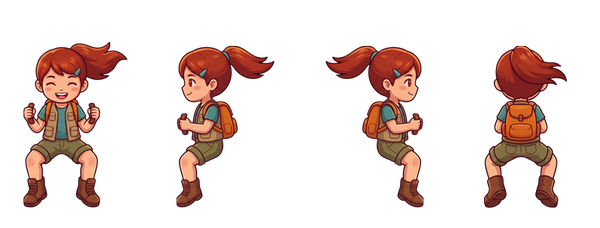
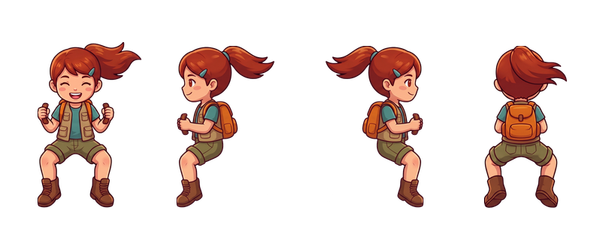
feat(images): retouches (pieu des ponts, fond volcan, masque de Léonce, T-Rex bouche ouverte, Chloé de face recentrée) ; FLY_BODY_X de face à 0

Changed region(s): [[0.03, 0.1842, 0.24, 0.9211]]

diff --git a/Godot/docs/direction-artistique.md b/Godot/docs/direction-artistique.md
@@ -119,13 +119,11 @@ chaque nouveau repli ; retirer la ligne une fois refait.
 | Chapitre 7, vol de profil : 2 images sur 4 identiques | `dinos/{quetzalcoatlus,hatzegopteryx,tupandactylus,tapejara}_vol.png` | nano-banana : 4 poses demandées, mais la pose « mi-haute » sortait à chaque essai avec un filé rose flou (3 essais) : cycle haut / plané / bas / plané (3 poses distinctes) | Redemander la pose mi-haute seule, nette |
 | Chapitre 7, vol face/dos : pose « ailes basses » | `dinos/*_vol_face_dos.png` | nano-banana : la 3e colonne est parfois très repliée (ailes en U) ; tupandactylus de face : 4e pose avec la tête tournée de 3/4 | Redemander ces cases |
 | Chapitre 7, `chloe_vol*.png` (3e version, 11/10) | `characters/chloe_vol.png`, `chloe_vol_manteau.png` (anciennes : `_v2.png`) | Assise à califourchon : cuisse en avant, genou plié à environ 90°, une seule jambe de profil, jambes écartées de face et de dos, mains sur les poignées ; réduite à 75 % autour du point d'assise (bassin à ±2 px de la 2e version) ; de profil gauche la jambe pend presque droite ; face de `chloe_vol` : yeux fermés (rire) | Si le calage ne plaît pas : `SHRINK` dans `cieux_persos.mjs` |
-| Chapitre 8, trex_magma : pose d'attaque | `dinos/trex_magma.png` (2e essai `qziwoi`) | nano-banana : le 2e essai a la bouche fermée partout (c'est ce qui était demandé au repos) mais la 6e pose « attaque » est elle aussi bouche fermée ; le 1er essai (`1bc8kc`) avait la gueule ouverte mais des poses 4 et 5 au cou penché et un halo de feu autour de la tête. De face, la fumée sort au niveau des yeux (de chaque côté de la tête) plutôt que des naseaux | Redemander la seule pose d'attaque gueule ouverte, sans halo de feu ; fumée des naseaux de face |
 | Chapitre 8, daspletosaurus / saichania : ressemblance avec leurs voisins | `dinos/daspletosaurus*.png`, `saichania*.png` | Daspletosaurus : éditée depuis l'Allosaurus, silhouette de profil proche (tête plus lourde, corps plus trapu seulement de face/dos) ; Saichania : éditée depuis l'Ankylosaurus, même ocre (les cornes du crâne et les épines plus petites la distinguent) | Si on les confond en jeu : Daspletosaurus plus trapu de profil (crâne plus haut, cou plus court), Saichania plus pâle/grise |
-| Chapitre 8, fond de combat volcan : restes du fond des Cieux | `battle/volcan.jpg` (source `1jdddz`) | nano-banana a gardé des plumes au sol et un petit drapeau en lambeaux hérités de `cieux.jpg` | Redemander sans plumes ni drapeau |
 | Chapitre 8, lave : sol non animé | `ground/lave.png` | Une seule image raccordable (nano-banana ne fait pas de planche animée) ; l'animation se fait par défilement/shader du sol | Au besoin, une planche de 4 images décalées |
 | Chapitre 8, autel_magma_fendu : lueur recolorée | `props/autel_magma_fendu.png` | La lueur de la fente, peinte sur le magenta, sortait rose : repeinte en orange par `recolor()` (tools/art-jobs/volcan_decors.mjs) | Redemander l'autel fendu avec la fente éclairée sur un fond d'une autre couleur |
-| Chapitre 8, Léonce assis : masque d'os trop grand | `characters/leonce_assis.png` | nano-banana a dessiné le masque presque aussi grand que la tête (posé sur le genou) | Le redemander plus petit (taille du visage) |
 | Chapitre 8, fiche de Brac assis : colonnes recomposées | `characters/brac_assis_cage.png` | nano-banana a dessiné 6 colonnes au lieu de 4 : recomposées en 4 ; la rangée du bas (debout, inutilisée) a son profil gauche = le droit retourné | Rien si la rangée du bas reste inutilisée |
+| Chapitre 8, trex_magma de face : fumée | `dinos/trex_magma_face_dos.png` (ancienne : `_v1`) | nano-banana, case par case (18/10) : la fumée sort maintenant des naseaux, mais le museau de face est court : les volutes restent près des yeux, assez pâles sur 3 cases sur 4 | Redemander des volutes plus nettes et plus bas si on les trouve mal placées en jeu |
 
 ## Plaine Volcanique (art, chapitre 8, 17/10)
 
@@ -807,3 +805,9 @@ sans niveaux de détail.
   régénérer ces objets sans halo et ajouter la lueur en jeu (PointLight2D).
 - Chaque espèce = une planche de profil (6 cases) + une planche face/dos (8 cases), produites
   par lots, région par région (~60 espèces, voir [bestiaire.md](bestiaire.md)).
+
+## Retouches du 18/10 (agent IMAGES)
+
+Faites avec nano-banana (aucun repli ComfyUI), anciens fichiers gardés à côté (`_v1` ou `_avant`), jobs/notes dans `tools/art-jobs/retouches_volcan.mjs` :
+poteau_lianes (bouts de corde pendants effacés par script), `battle/volcan.jpg` (plumes et drapeau retirés), `leonce_assis` (masque d'os réduit à ~45 %, cellule par cellule),
+`trex_magma` (6e pose : gueule ouverte, rugissement), `trex_magma_face_dos` (fumée des naseaux), `chloe_vol` / `chloe_vol_manteau` (vue de face recentrée par décalage de pixels, sans nano-banana).
